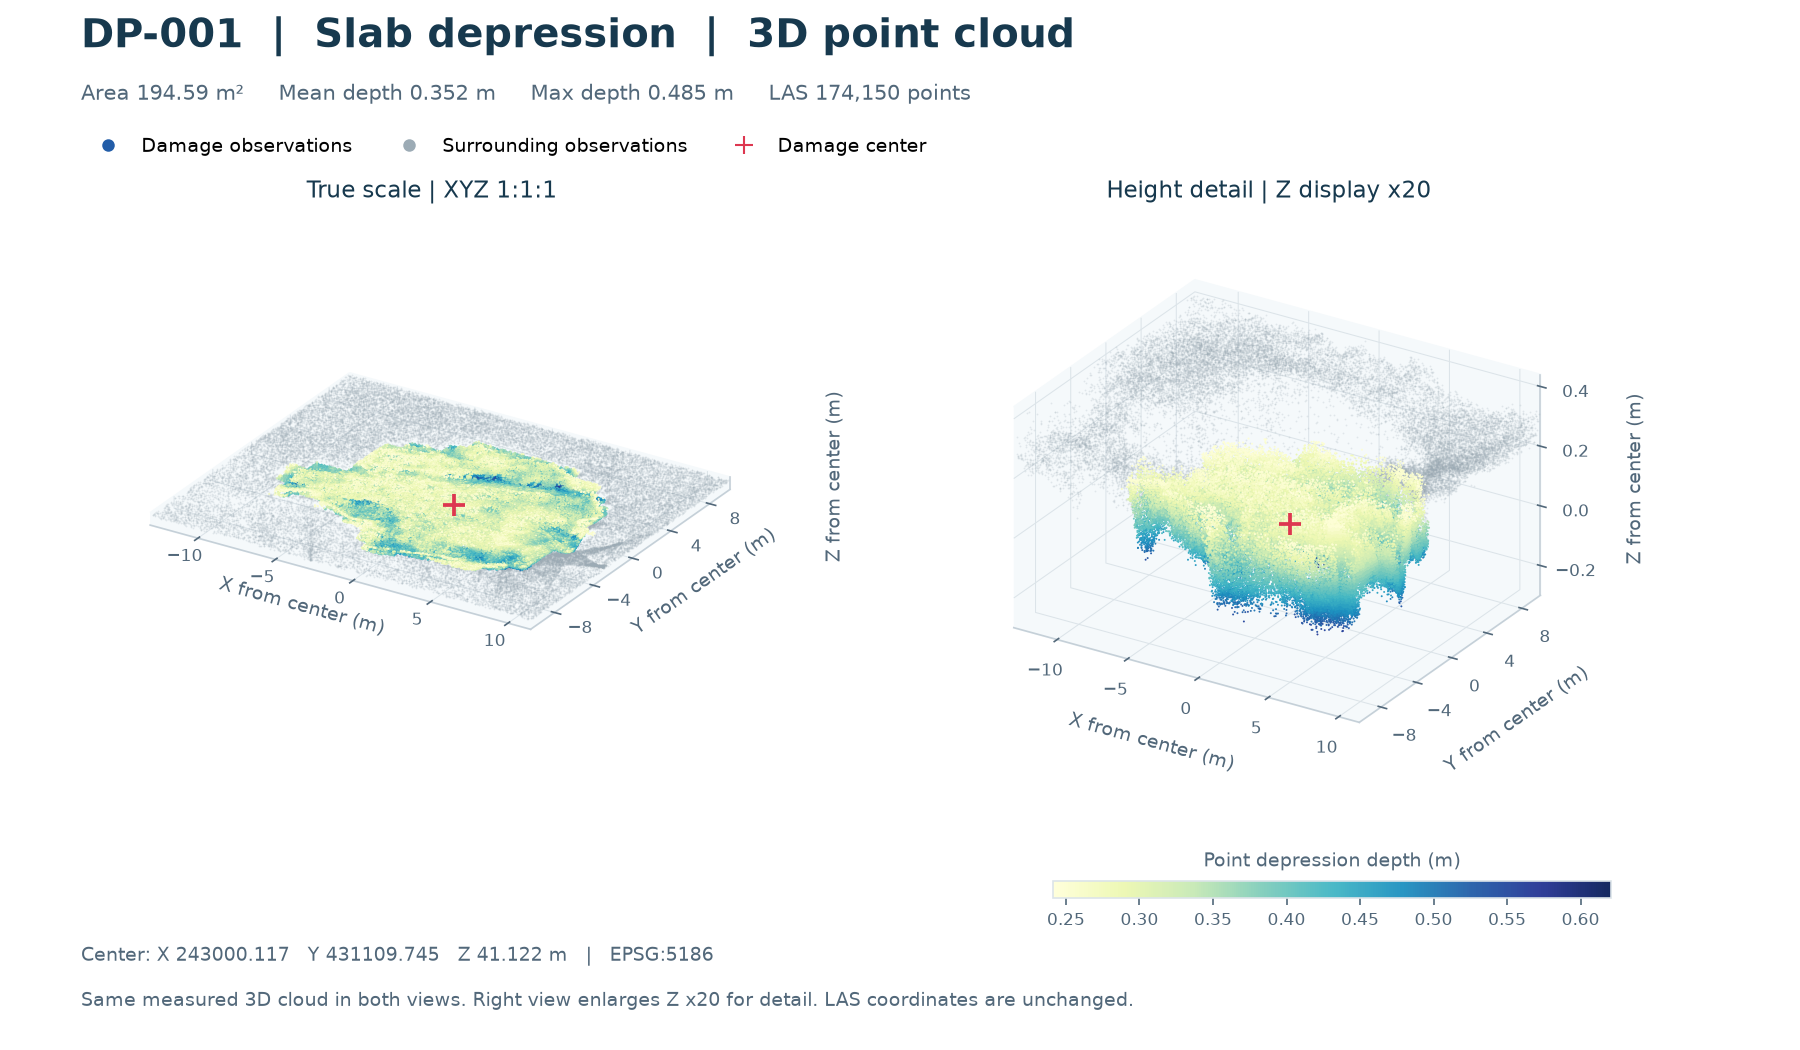
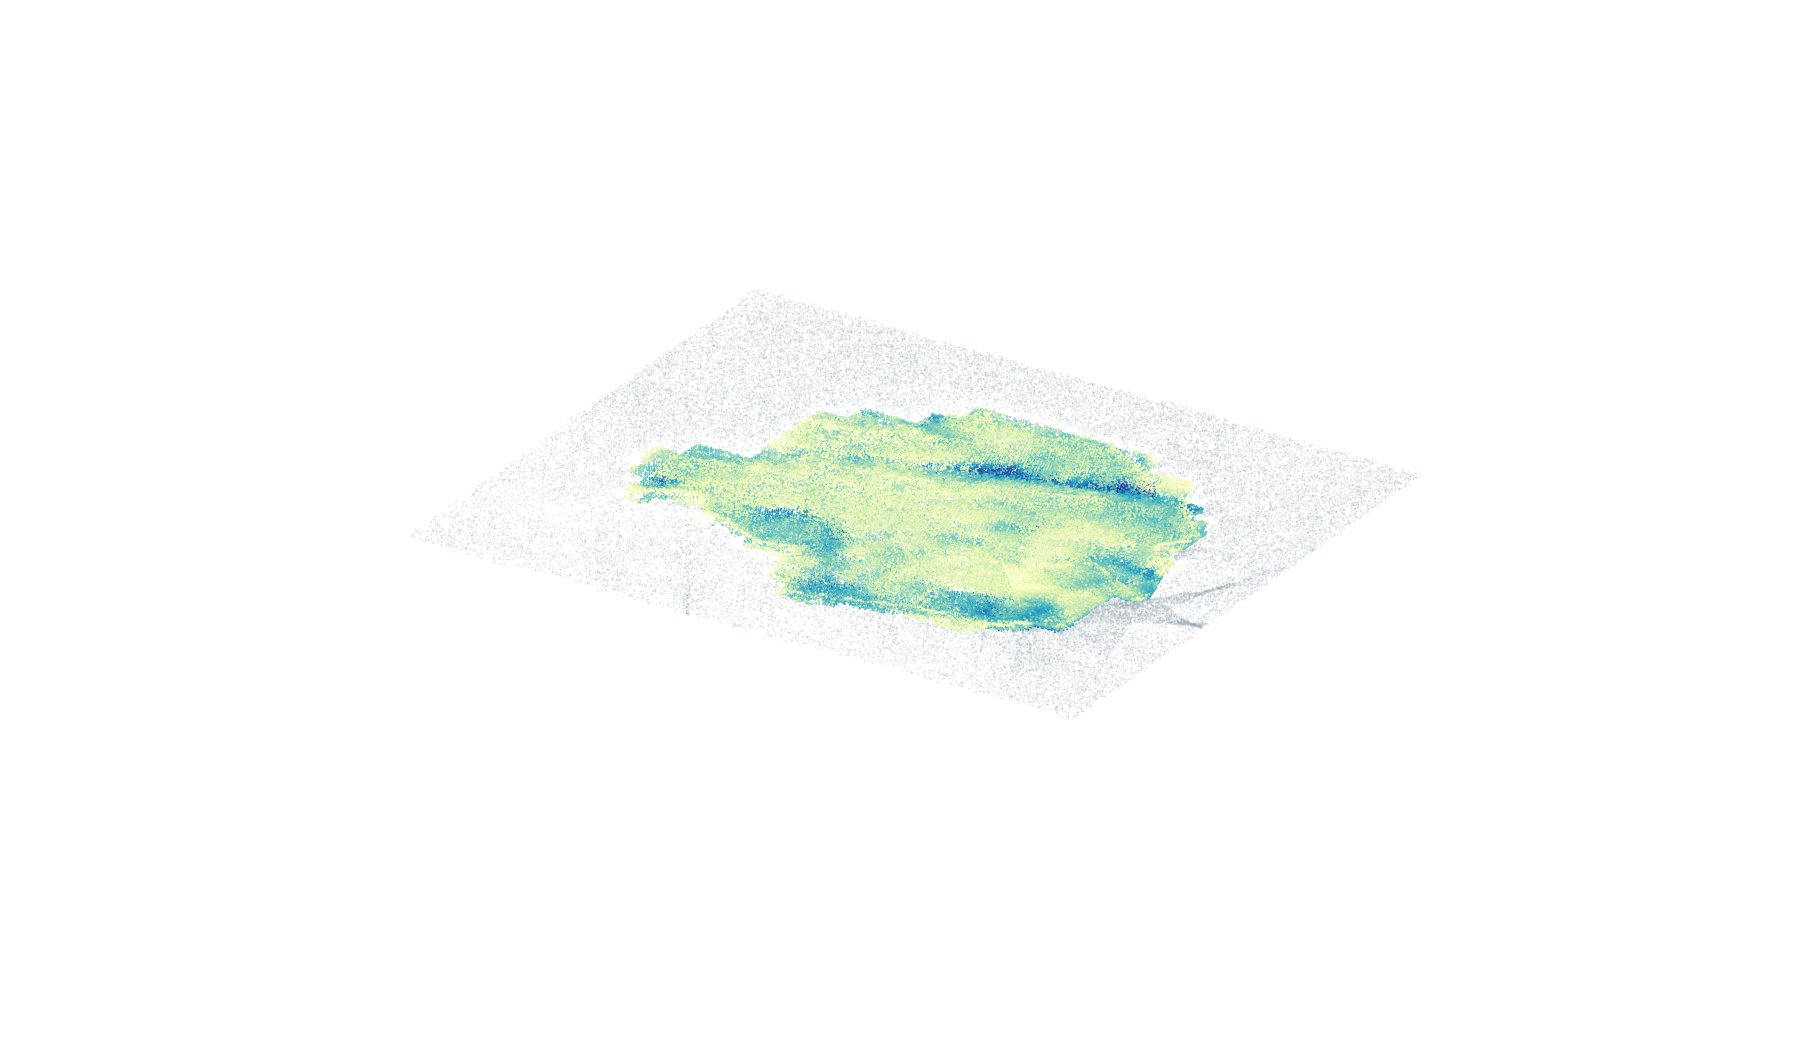
Keep only single unannotated 3D Multibeam snapshots

diff --git a/Demo/Multibeam/Code/visualize_results.py b/Demo/Multibeam/Code/visualize_results.py
@@ -17,8 +17,6 @@ import matplotlib
 matplotlib.use("Agg")
 import matplotlib.pyplot as plt
 from matplotlib.colors import Normalize
-from matplotlib.lines import Line2D
-from matplotlib.ticker import MaxNLocator
 import numpy as np
 import shapely
 from shapely.geometry import shape
@@ -113,80 +111,31 @@ def make_visualization(feature, staging):
     span = np.maximum(limits[1] - limits[0], 0.01)
     limits[:, 2] += np.array([-1, 1]) * max(span[2] * 0.06, 0.03)
     span = limits[1] - limits[0]
-    desired = max(span[:2]) * 0.35 / span[2]
-    exaggeration = next((value for value in (2, 5, 10, 20) if value >= desired), 20)
     values = depth if feature["kind"] == "DP" and depth is not None else xyz[:, 2]
-    color_label = "Point depression depth (m)" if depth is not None else "Observed elevation Z (m)"
     cmap = "YlGnBu" if feature["kind"] == "DP" else "viridis"
     norm = Normalize(vmin=float(values.min()), vmax=float(values.max()) + 1e-12)
     fig = plt.figure(figsize=(12, 7), dpi=150, facecolor="white")
-    axes = [fig.add_axes([0.025, 0.23, 0.43, 0.57], projection="3d", computed_zorder=False),
-            fig.add_axes([0.49, 0.23, 0.43, 0.57], projection="3d", computed_zorder=False)]
-    for ax, factor in zip(axes, (1, exaggeration)):
-        ax.set_facecolor("white")
-        if len(context):
-            ax.scatter(context[:, 0], context[:, 1], context[:, 2], c="#9cabb5", s=0.75,
-                       alpha=0.23, linewidths=0, depthshade=False, zorder=1)
-        scatter = ax.scatter(cloud[:, 0], cloud[:, 1], cloud[:, 2], c=values, cmap=cmap, norm=norm,
-                             s=5 if len(cloud) < 5_000 else 0.9, alpha=0.95, linewidths=0,
-                             depthshade=False, zorder=2)
-        ax.scatter([0], [0], [0], marker="+", c="#dd3750", s=120, linewidths=1.8,
-                   depthshade=False, zorder=3)
-        ax.set_xlim(limits[:, 0])
-        ax.set_ylim(limits[:, 1])
-        ax.set_zlim(limits[:, 2])
-        # Coordinates and tick labels remain in measured metres; only box proportions change.
-        ax.set_box_aspect(span * np.array([1, 1, factor]), zoom=0.95)
-        ax.view_init(elev=26, azim=-58)
-        ax.set_proj_type("ortho")
-        ax.set_xlabel("X from center (m)", labelpad=8, fontsize=9, color="#52687a")
-        ax.set_ylabel("Y from center (m)", labelpad=8, fontsize=9, color="#52687a")
-        ax.set_zlabel("Z from center (m)", labelpad=6, fontsize=9, color="#52687a")
-        ax.tick_params(labelsize=8, colors="#52687a", pad=2)
-        ax.xaxis.set_major_locator(MaxNLocator(nbins=5))
-        ax.yaxis.set_major_locator(MaxNLocator(nbins=5))
-        ax.zaxis.set_major_locator(MaxNLocator(nbins=4))
-        if factor == 1 and span[2] / max(span[:2]) < 0.05:
-            # A physically shallow cloud has no room for readable Z ticks in the true-scale view.
-            ax.set_zticks([])
-        for axis in (ax.xaxis, ax.yaxis, ax.zaxis):
-            axis.set_pane_color((0.96, 0.975, 0.985, 1))
-            axis._axinfo["grid"].update(color="#dce4e9", linewidth=0.5)
-            axis.line.set_color("#c5d0d8")
-        title = "True scale | XYZ 1:1:1" if factor == 1 else f"Height detail | Z display x{factor}"
-        ax.set_title(title, fontsize=11, color="#17394e", pad=6)
-    bar = fig.colorbar(scatter, cax=fig.add_axes([0.585, 0.145, 0.31, 0.016]), orientation="horizontal")
-    bar.ax.set_title(color_label, fontsize=9, color="#52687a", pad=7)
-    bar.ax.tick_params(labelsize=8, colors="#52687a")
-    bar.outline.set_edgecolor("#dce4e9")
-    name = "Scour" if feature["kind"] == "SC" else "Slab depression"
-    fig.text(0.045, 0.955, f"{feature['id']}  |  {name}  |  3D point cloud", fontsize=19,
-             fontweight="bold", color="#17394e")
-    fig.text(0.045, 0.905,
-             f"Area {feature['area']:.2f} m²     Mean depth {feature['mean_depth']:.3f} m     "
-             f"Max depth {feature['max_depth']:.3f} m     LAS {feature['point_count']:,} points",
-             fontsize=10, color="#52687a")
-    legend = [Line2D([], [], color=plt.get_cmap(cmap)(0.75), marker="o", linestyle="none", markersize=5,
-                     label="Damage observations")]
+    ax = fig.add_axes([0, 0, 1, 1], projection="3d", computed_zorder=False)
+    ax.set_facecolor("white")
     if len(context):
-        legend.append(Line2D([], [], color="#9cabb5", marker="o", linestyle="none", markersize=5,
-                             label="Surrounding observations"))
-    legend.append(Line2D([], [], color="#dd3750", marker="+", linestyle="none", markersize=9,
-                         label="Damage center"))
-    fig.legend(handles=legend, loc="upper left", bbox_to_anchor=(0.04, 0.885), ncol=3,
-               frameon=False, fontsize=9)
-    fig.text(0.045, 0.085,
-             f"Center: X {center[0]:.3f}   Y {center[1]:.3f}   Z {center[2]:.3f} m   |   EPSG:5186",
-             fontsize=9, color="#52687a")
-    fig.text(0.045, 0.042,
-             f"Same measured 3D cloud in both views. Right view enlarges Z x{exaggeration} for detail. "
-             "LAS coordinates are unchanged.", fontsize=9, color="#52687a")
+        ax.scatter(context[:, 0], context[:, 1], context[:, 2], c="#9cabb5", s=0.75,
+                   alpha=0.23, linewidths=0, depthshade=False, zorder=1)
+    ax.scatter(cloud[:, 0], cloud[:, 1], cloud[:, 2], c=values, cmap=cmap, norm=norm,
+               s=5 if len(cloud) < 5_000 else 0.9, alpha=0.95, linewidths=0,
+               depthshade=False, zorder=2)
+    ax.set_xlim(limits[:, 0])
+    ax.set_ylim(limits[:, 1])
+    ax.set_zlim(limits[:, 2])
+    ax.set_box_aspect(span, zoom=0.95)
+    ax.view_init(elev=26, azim=-58)
+    ax.set_proj_type("ortho")
+    ax.set_axis_off()
     destination = Path(staging) / f"Visualiza/{feature['kind']}/{feature['id']}.png"
     destination.parent.mkdir(parents=True, exist_ok=True)
     fig.savefig(destination, facecolor="white")
     plt.close(fig)
     return {"id": feature["id"], "sampled_damage_points": len(xyz),
-            "sampled_context_points": len(context), "vertical_detail_factor": exaggeration,
+            "sampled_context_points": len(context), "vertical_detail_factor": 1, "view_count": 1, "annotations": False,
             "true_scale": True, "image_size": [1800, 1050], "observed_xyz_only": True}
 
 

diff --git a/Demo/Multibeam/README.md b/Demo/Multibeam/README.md
@@ -38,9 +38,9 @@ Multibeam/
 | `Output/Visualiza/DP/` | 함몰 LAS의 실제 XYZ와 주변 슬래브 관측점으로 만든 3D 스냅샷. 점의 색은 점별 함몰 깊이입니다. |
 | `Output/Result/*.csv` | 손상별 치수, 중앙 표출 좌표, LAS·PNG 상대경로. UTF-8 BOM 인코딩. |
 
-각 손상은 **LAS 1개와 PNG 1개**에 대응합니다. PNG는 1800×1050의 3D 스냅샷입니다. 왼쪽은 XYZ 실제 축척(1:1:1), 오른쪽은 높이 차를 읽기 위한 Z 확대 보기입니다. 두 보기는 같은 관측 점군이며, 오른쪽의 확대 배율을 이미지에 표시합니다. 축은 중앙점 기준 X/Y/Z 거리(m)이고 `+` 표시는 손상 중앙점입니다.
+각 손상은 **LAS 1개와 PNG 1개**에 대응합니다. PNG는 1800×1050의 단일 3D 점군 스냅샷이며, XYZ 실제 축척(1:1:1)을 사용합니다. 글자·범례·축·눈금·격자·중앙점 마커 없이 점군 형상만 표시합니다.
 
-이미지에만 점 수 제한과 Z 표시 확대를 적용하며, LAS의 관측 XYZ·점 속성·전체 점 수는 유지합니다. 주변 관측점은 회색으로 표시합니다. 세굴의 색은 실제 표고, 함몰의 색은 해당 관측점의 `depression_depth_m`입니다. 점별 함몰 깊이와 CSV의 격자 패치 깊이는 원본 계산 대상이 다르므로 값이 다를 수 있습니다.
+이미지에는 점 수 제한만 적용하며, LAS의 관측 XYZ·점 속성·전체 점 수는 유지합니다. 주변 관측점은 회색으로 표시합니다. 세굴의 색은 실제 표고, 함몰의 색은 해당 관측점의 `depression_depth_m`입니다. 점별 함몰 깊이와 CSV의 격자 패치 깊이는 원본 계산 대상이 다르므로 값이 다를 수 있습니다.
 
 ## 현재 산출물
 
@@ -88,12 +88,12 @@ Multibeam/
 
 ## 다운로드
 
-원본 LAS(약 1.27GB)와 SC-002 LAS(약 110MB)는 GitHub 저장소의 파일 크기 제한을 넘으므로 [Multibeam Release](https://github.com/Jiwandukong/Dam_Damge_Module/releases/tag/multibeam-demo-v2)로 제공합니다. 작은 LAS, Visualiza 3D PNG, CSV, 실행 코드는 저장소에 포함합니다.
+원본 LAS(약 1.27GB)와 SC-002 LAS(약 110MB)는 GitHub 저장소의 파일 크기 제한을 넘으므로 [Multibeam Release](https://github.com/Jiwandukong/Dam_Damge_Module/releases/tag/multibeam-demo-v3)로 제공합니다. 작은 LAS, Visualiza 3D PNG, CSV, 실행 코드는 저장소에 포함합니다.
 
 | Release 파일 | 내용 |
 |---|---|
-| [multibeam_A_rawdata.zip](https://github.com/Jiwandukong/Dam_Damge_Module/releases/download/multibeam-demo-v2/multibeam_A_rawdata.zip) | `Data/0913_multibeam_A_align.las`. |
-| [multibeam_A_results.zip](https://github.com/Jiwandukong/Dam_Damge_Module/releases/download/multibeam-demo-v2/multibeam_A_results.zip) | `Output/`의 LAS 6개, PNG 6개, CSV 2개 전체. |
+| [multibeam_A_rawdata.zip](https://github.com/Jiwandukong/Dam_Damge_Module/releases/download/multibeam-demo-v3/multibeam_A_rawdata.zip) | `Data/0913_multibeam_A_align.las`. |
+| [multibeam_A_results.zip](https://github.com/Jiwandukong/Dam_Damge_Module/releases/download/multibeam-demo-v3/multibeam_A_results.zip) | `Output/`의 LAS 6개, PNG 6개, CSV 2개 전체. |
 
 `Demo/Multibeam` 폴더에서 다음 명령으로 다운로드·압축 해제합니다. ZIP과 내부 파일의 SHA256을 확인합니다.
 

diff --git a/Demo/Multibeam/Data/README.md b/Demo/Multibeam/Data/README.md
@@ -2,7 +2,7 @@
 
 입력 파일은 `0913_multibeam_A_align.las`이며 48,890,044개의 관측점을 포함합니다.
 
-대용량 파일은 [Multibeam Release](https://github.com/Jiwandukong/Dam_Damge_Module/releases/tag/multibeam-demo-v2)의 `multibeam_A_rawdata.zip`으로 제공합니다. ZIP의 `Data/`를 프로젝트 아래에 압축 해제하거나, 프로젝트 폴더에서 실행하세요.
+대용량 파일은 [Multibeam Release](https://github.com/Jiwandukong/Dam_Damge_Module/releases/tag/multibeam-demo-v3)의 `multibeam_A_rawdata.zip`으로 제공합니다. ZIP의 `Data/`를 프로젝트 아래에 압축 해제하거나, 프로젝트 폴더에서 실행하세요.
 
 ```bash
 python3 Code/download_assets.py --scope raw
